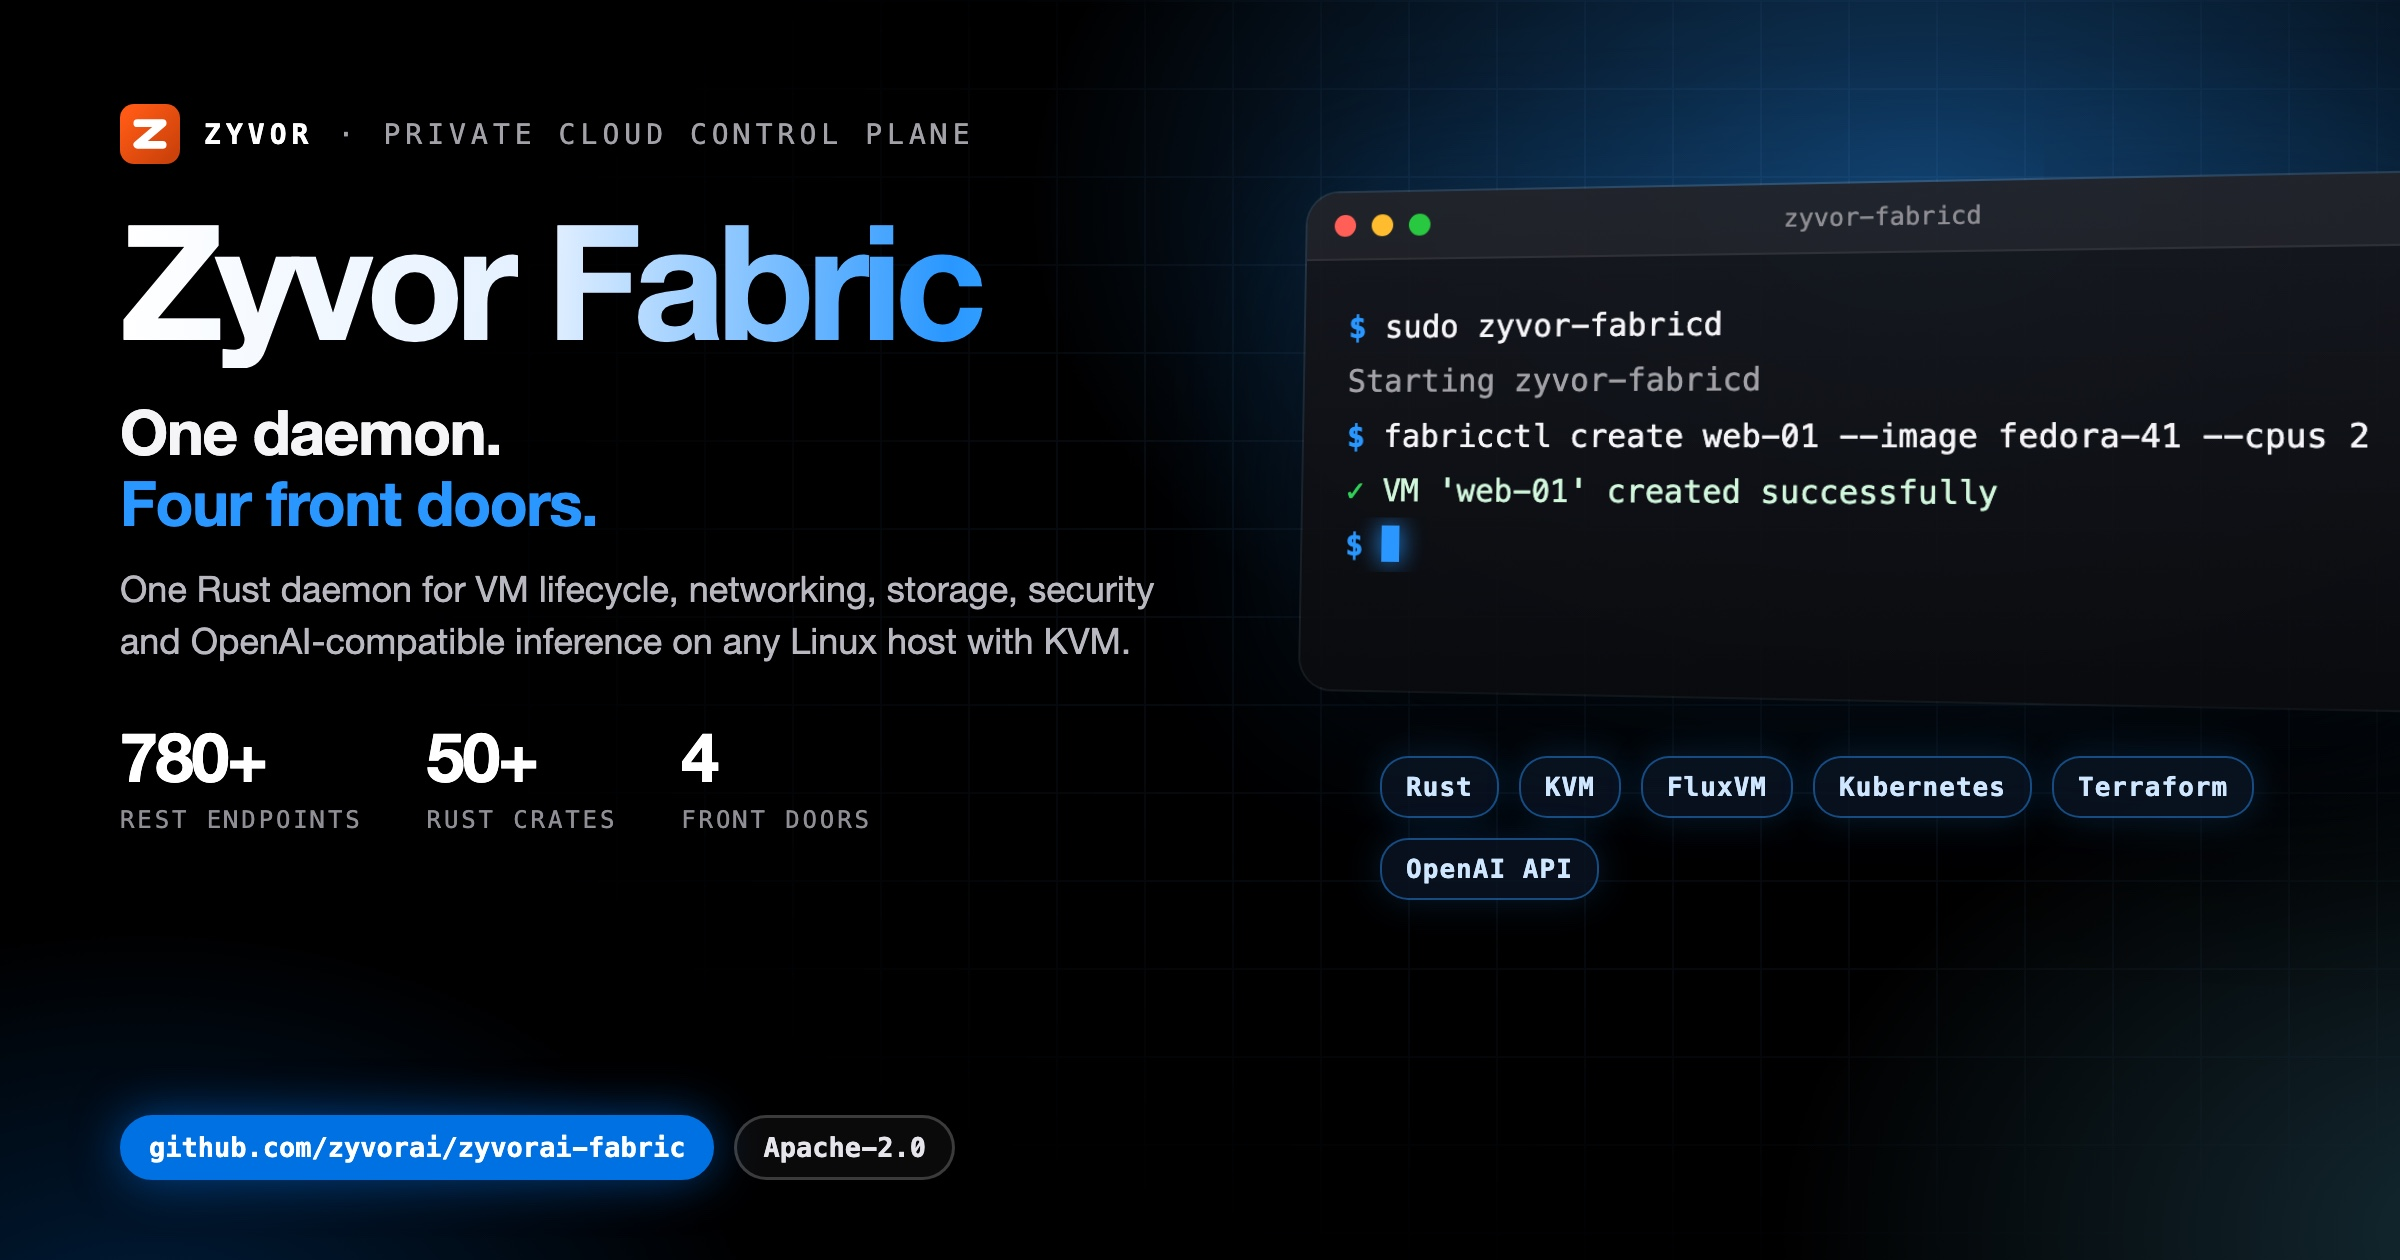
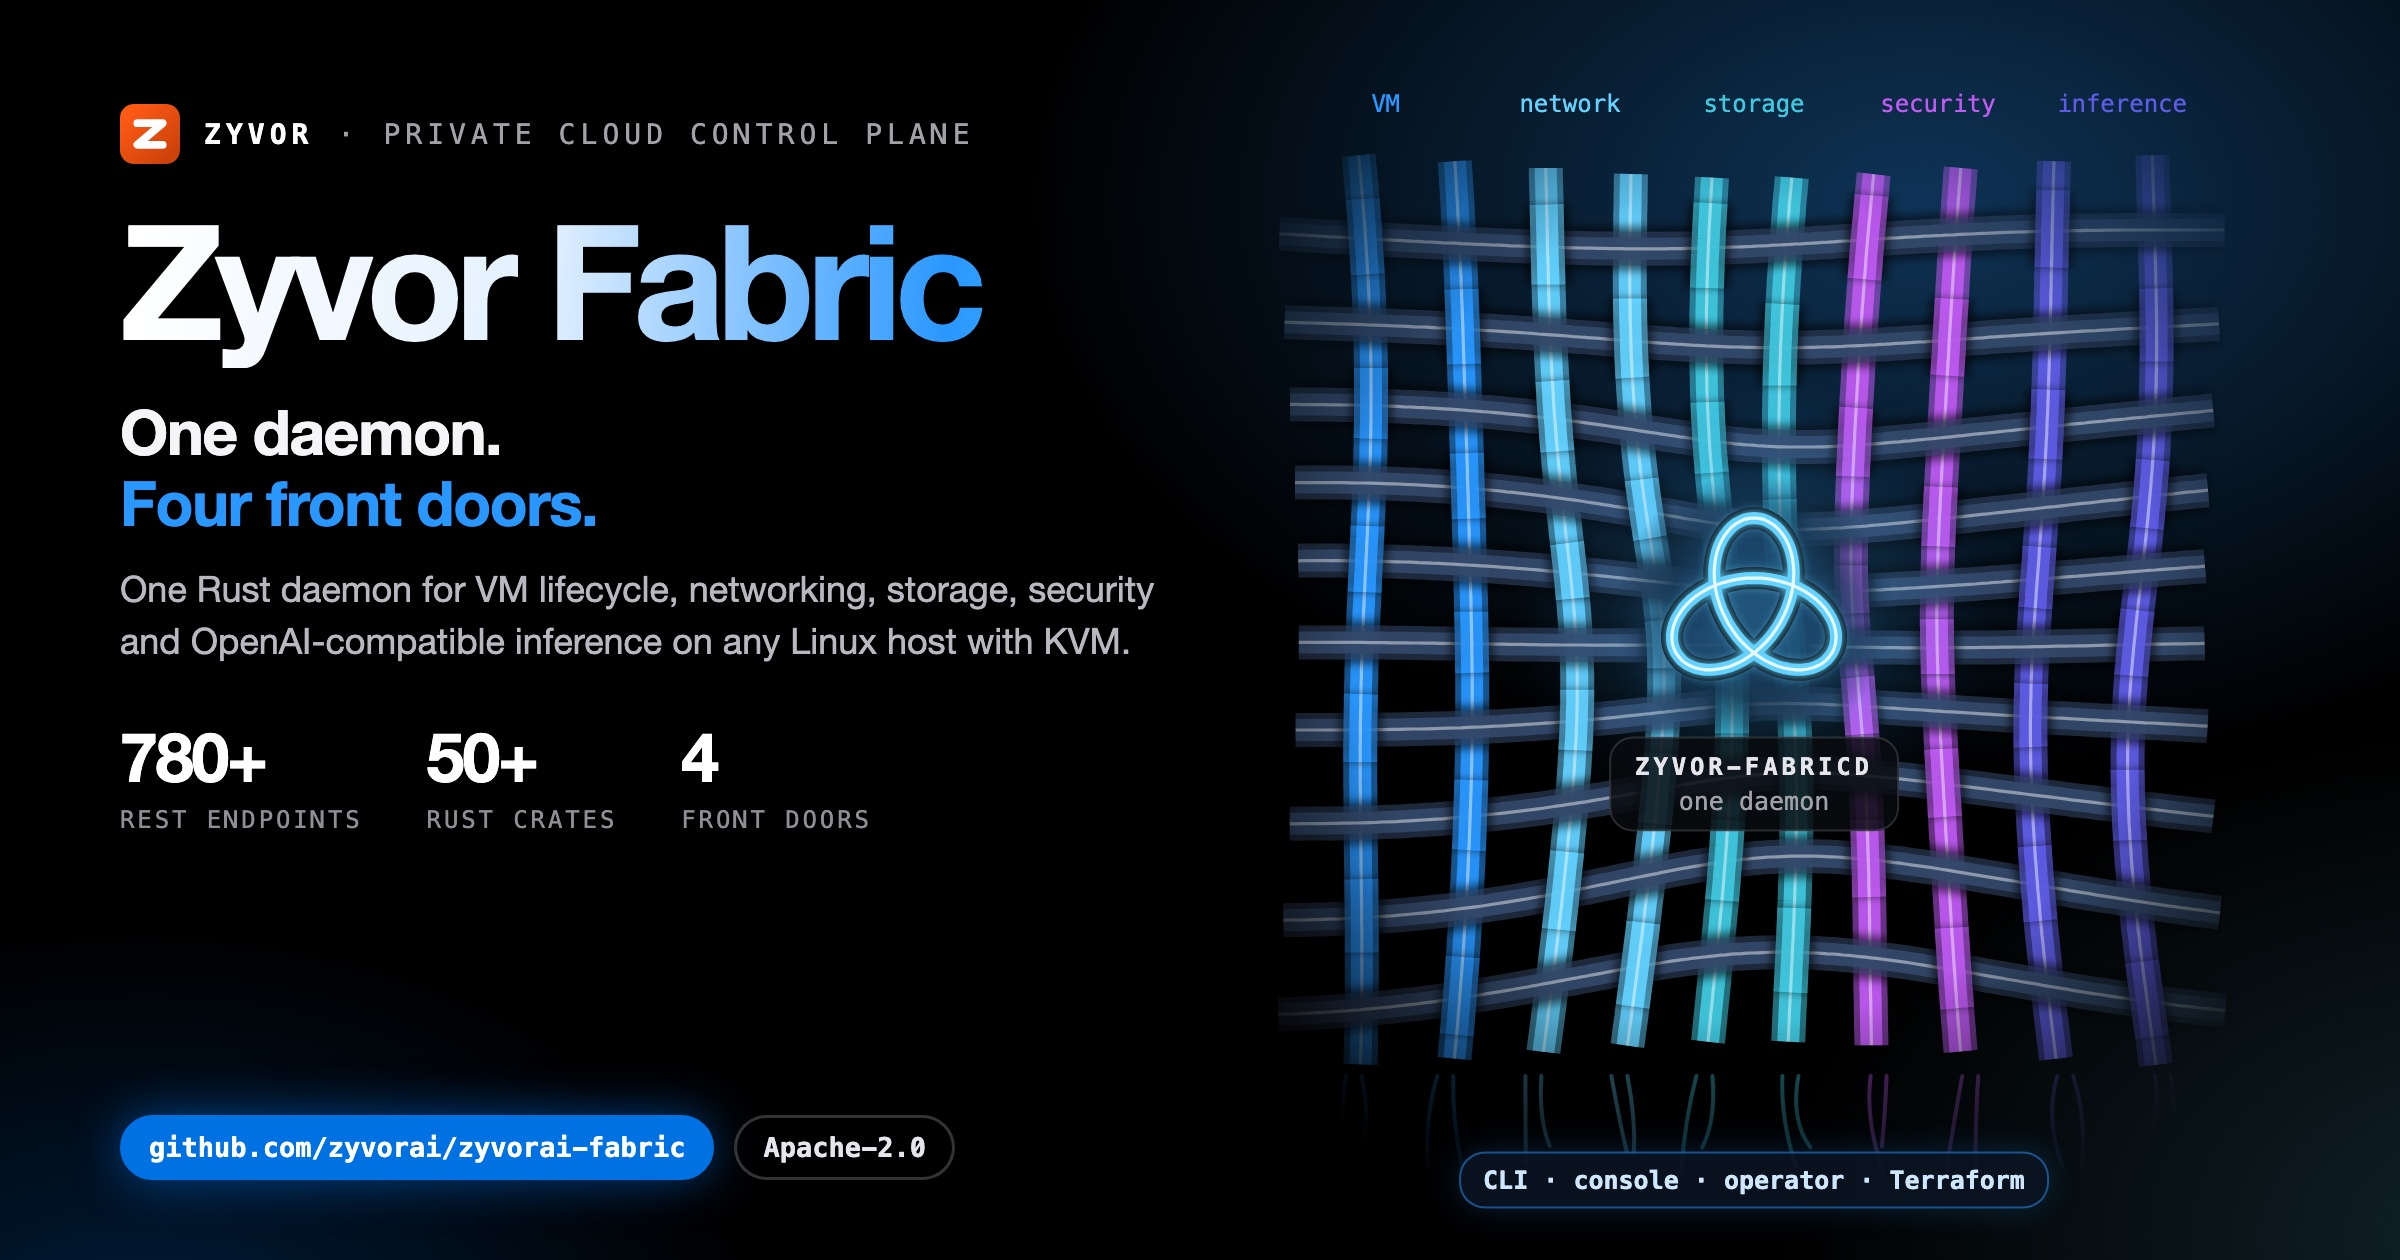
docs(social): unique illustrated hero card
Replace the shared terminal-window art with a motif drawn for this project;
same verified copy and stats on the left.

diff --git a/docs/social/fabric-hero-dark.html b/docs/social/fabric-hero-dark.html
@@ -8,58 +8,47 @@
   Build: ./docs/social/build-hero-dark.sh  ->  fabric-hero-dark.jpg (2400x1260)
 -->
 <style>
-  :root { --blue:#0071e3; --signal:#2997ff; --cyan:#64d2ff; --green:#30d158; --amber:#ff9f0a;
+  :root { --blue:#0071e3; --signal:#2997ff; --cyan:#64d2ff; --green:#30d158; --amber:#ff9f0a; --red:#ff453a; --violet:#bf5af2;
     --sans:'SF Pro Display','Helvetica Neue',Helvetica,Arial,sans-serif; --mono:'SF Mono',Menlo,Consolas,monospace; }
   * { box-sizing:border-box; }
   html,body { margin:0; padding:0; }
   body { width:1200px; height:630px; overflow:hidden; color:#f5f5f7; font-family:var(--sans); position:relative; background:#000; }
   .aurora { position:absolute; inset:0;
-    background:radial-gradient(720px 460px at 80% 16%, rgba(41,151,255,.40), transparent 62%),
-               radial-gradient(600px 420px at 104% 98%, rgba(100,210,255,.20), transparent 60%),
+    background:radial-gradient(720px 460px at 80% 16%, rgba(41,151,255,.34), transparent 62%),
+               radial-gradient(600px 420px at 104% 98%, rgba(100,210,255,.16), transparent 60%),
                radial-gradient(520px 380px at 6% 110%, rgba(0,113,227,.28), transparent 60%); }
-  .grid { position:absolute; inset:0; opacity:.09;
-    background-image:linear-gradient(rgba(120,180,255,.9) 1px,transparent 1px),linear-gradient(90deg,rgba(120,180,255,.9) 1px,transparent 1px);
-    background-size:44px 44px; -webkit-mask-image:radial-gradient(900px 520px at 72% 42%, #000 18%, transparent 75%); }
-  .left { position:absolute; left:60px; top:52px; width:560px; z-index:3; }
+  .copy { position:absolute; left:60px; top:52px; width:560px; z-index:3; }
   .brand { display:flex; align-items:center; gap:12px; font-family:var(--mono); font-size:14px; letter-spacing:.18em; text-transform:uppercase; color:#a1a1a6; }
   .brand b { color:#fff; }
   .word { margin:20px 0 0; font-size:80px; line-height:.95; font-weight:800; letter-spacing:-.05em; white-space:nowrap;
     background:linear-gradient(92deg,#fff 0%,#e3f0ff 38%,var(--signal) 74%,var(--cyan) 100%); -webkit-background-clip:text; background-clip:text; color:transparent; padding-bottom:6px; }
   .tag { margin:14px 0 0; font-size:31px; line-height:1.15; font-weight:700; letter-spacing:-.02em; }
   .tag em { font-style:normal; color:var(--signal); }
-  .lede { margin:12px 0 0; font-size:18px; line-height:1.45; color:#b8b8bf; width:520px; }
+  .lede { margin:12px 0 0; font-size:18px; line-height:1.45; color:#b8b8bf; width:520px; text-shadow:0 1px 12px #000; }
   .stats { margin-top:24px; display:flex; gap:32px; }
   .stat b { display:block; font-size:34px; font-weight:800; letter-spacing:-.03em; color:#fff; }
   .stat span { font-family:var(--mono); font-size:12px; letter-spacing:.12em; text-transform:uppercase; color:#8e8e93; }
   .pill { position:absolute; left:60px; bottom:40px; display:flex; gap:10px; z-index:3; }
-  .pill span { font-family:var(--mono); font-size:13.5px; font-weight:700; padding:7px 13px; border-radius:18px; border:1.5px solid rgba(255,255,255,.2); color:#e5e5ea; background:rgba(255,255,255,.04); }
+  .pill span { font-family:var(--mono); font-size:13.5px; font-weight:700; padding:7px 13px; border-radius:18px; border:1.5px solid rgba(255,255,255,.2); color:#e5e5ea; background:rgba(0,0,0,.6); }
   .pill span.b { background:var(--blue); border-color:var(--blue); color:#fff; box-shadow:0 0 24px rgba(0,113,227,.55); }
-
-  .right { position:absolute; left:652px; top:96px; width:560px; z-index:2; }
-  .win { position:relative; width:560px; border-radius:16px; overflow:hidden; z-index:2;
-    background:linear-gradient(180deg, rgba(22,24,30,.94), rgba(10,11,14,.96));
-    box-shadow:0 50px 100px rgba(0,0,0,.75), 0 0 0 1px rgba(255,255,255,.14), 0 0 90px rgba(41,151,255,.22);
-    transform:perspective(1600px) rotateY(-14deg) rotateX(4deg); transform-origin:left center; }
-  .bar { height:34px; display:flex; align-items:center; gap:8px; padding:0 14px; background:rgba(255,255,255,.05); border-bottom:1px solid rgba(255,255,255,.07); }
-  .bar i { width:11px; height:11px; border-radius:50%; background:#ff5f57; } .bar i:nth-child(2){background:#febc2e} .bar i:nth-child(3){background:#28c840}
-  .bar em { margin-left:auto; margin-right:auto; font-style:normal; font-family:var(--mono); font-size:12px; color:#8e8e93; transform:translateX(-24px); }
-  .term { min-height:214px; padding:20px 22px 24px; font-family:var(--mono); font-size:15.5px; line-height:1.75; }
-  .l { white-space:pre; overflow:hidden; text-overflow:ellipsis; color:#f5f5f7; }
-  .l .p { color:var(--signal); font-weight:700; }
-  .l.out { color:#a1a1a6; }
-  .l.cm { color:#6e6e73; }
-  .l.ok { color:#d1f7dc; } .l.ok span { color:var(--green); font-weight:700; }
-  .l.warn { color:#ffe1b0; } .l.warn span { color:var(--amber); font-weight:700; }
-  .cur { display:inline-block; width:9px; height:18px; background:var(--signal); vertical-align:-3px; box-shadow:0 0 12px var(--signal); }
-  .chips { margin:34px 0 0 38px; width:480px; display:flex; flex-wrap:wrap; gap:10px; position:relative; z-index:3; }
-  .chips span { font-family:var(--mono); font-size:13px; font-weight:700; letter-spacing:.04em; padding:7px 12px; border-radius:14px;
-    color:#cfe6ff; background:rgba(10,20,35,.82); border:1px solid rgba(41,151,255,.45); box-shadow:0 0 18px rgba(41,151,255,.18); }
+  .art { position:absolute; left:520px; top:0; width:680px; height:630px; z-index:2; }
+  .art svg { display:block; }
+  #labels { position:absolute; inset:0; z-index:4; pointer-events:none; }
+  .lbl { position:absolute; font-family:var(--mono); font-size:12.5px; color:#a1a1a6; text-align:center; transform:translate(-50%,-50%); white-space:nowrap; }
+  .lbl b { display:block; font-size:12px; letter-spacing:.16em; text-transform:uppercase; color:#e5e5ea; }
+  .lbl span { display:block; margin-top:3px; }
+  .lbl.box { padding:7px 12px; border-radius:12px; background:rgba(8,10,14,.85); border:1px solid rgba(255,255,255,.14); }
+  .lbl.chip { padding:6px 11px; border-radius:13px; font-size:12.5px; font-weight:700; color:#cfe6ff; background:rgba(10,20,35,.85); border:1px solid rgba(41,151,255,.5); box-shadow:0 0 16px rgba(41,151,255,.2); }
+  .lbl.left { transform:translate(0,-50%); text-align:left; }
+  .lbl.right { transform:translate(-100%,-50%); text-align:right; }
+  .ok { color:var(--green) !important; } .warn { color:var(--amber) !important; } .bad { color:var(--red) !important; } .sig { color:var(--signal) !important; } .cy { color:var(--cyan) !important; } .vi { color:var(--violet) !important; }
 </style>
 </head>
 <body>
 <div class="aurora"></div>
-<div class="grid"></div>
-<div class="left">
+<div class="art"><svg id="art" width="680" height="630" viewBox="0 0 680 630" xmlns="http://www.w3.org/2000/svg"></svg></div>
+<div id="labels"></div>
+<div class="copy">
   <div class="brand"><svg viewBox="0 0 64 64" width="30" height="30" aria-hidden="true"><defs><linearGradient id="zb" x1="8" y1="8" x2="56" y2="56" gradientUnits="userSpaceOnUse"><stop offset="0" stop-color="#ff5a15"/><stop offset="1" stop-color="#cc420a"/></linearGradient></defs><rect width="64" height="64" rx="15" fill="url(#zb)"/><path d="M18.5,20.5 45.5,20.5 18.5,43.5 45.5,43.5" fill="none" stroke="#fff" stroke-width="8.3" stroke-linecap="round" stroke-linejoin="round"/></svg><b>Zyvor</b><span>&middot;</span><span>Private cloud control plane</span></div>
   <div class="word">Zyvor Fabric</div>
   <div class="tag">One daemon.<br><em>Four front doors.</em></div>
@@ -67,8 +56,103 @@
   <div class="stats"><div class="stat"><b>780+</b><span>REST endpoints</span></div><div class="stat"><b>50+</b><span>Rust crates</span></div><div class="stat"><b>4</b><span>front doors</span></div></div>
 </div>
 <div class="pill"><span class="b">github.com/zyvorai/zyvorai-fabric</span><span>Apache-2.0</span></div>
-<div class="right"><div class="win"><div class="bar"><i></i><i></i><i></i><em>zyvor-fabricd</em></div>
-<div class="term"><div class="l"><span class="p">$</span> sudo zyvor-fabricd</div><div class="l out">Starting zyvor-fabricd</div><div class="l"><span class="p">$</span> fabricctl create web-01 --image fedora-41 --cpus 2</div><div class="l ok"><span>&#10003;</span> VM &#x27;web-01&#x27; created successfully</div><div class="l"><span class="p">$</span> <i class="cur"></i></div></div></div>
-<div class="chips"><span>Rust</span><span>KVM</span><span>FluxVM</span><span>Kubernetes</span><span>Terraform</span><span>OpenAI API</span></div></div>
+<script>
+var Z = (function () {
+  var NS = 'http://www.w3.org/2000/svg', svg = document.getElementById('art'), labels = document.getElementById('labels');
+  var seed = 20261004;
+  function rnd() { seed = (seed * 1103515245 + 12345) % 2147483648; return seed / 2147483648; }
+  function el(tag, a, parent) { var n = document.createElementNS(NS, tag); for (var k in a) n.setAttribute(k, a[k]); (parent || svg).appendChild(n); return n; }
+  function g(attrs) { return el('g', attrs || {}); }
+  function label(x, y, inner, cls, style) { var d = document.createElement('div'); d.className = 'lbl ' + (cls || ''); d.style.left = (520 + x) + 'px'; d.style.top = y + 'px'; if (style) d.setAttribute('style', d.getAttribute('style') + ';' + style); d.innerHTML = inner; labels.appendChild(d); return d; }
+  return { NS: NS, svg: svg, W: 680, H: 630, rnd: rnd, el: el, g: g, label: label,
+    reseed: function (s) { seed = s; },
+    c: { blue: '#0071e3', signal: '#2997ff', cyan: '#64d2ff', green: '#30d158', amber: '#ff9f0a', red: '#ff453a', violet: '#bf5af2', teal: '#40c8e0', indigo: '#5e5ce6', pink: '#ff375f', white: '#f5f5f7', grey: '#8e8e93' } };
+})();
+(function () {
+// Fabric: a woven cloth. Warp threads are the five capabilities, interlaced with weft; one glowing knot at the centre is the single daemon.
+var C = Z.c;
+var defs = Z.el('defs', {});
+defs.innerHTML = '<filter id="fbGl" filterUnits="userSpaceOnUse" x="-50" y="-50" width="780" height="730"><feGaussianBlur stdDeviation="3" result="b"/><feMerge><feMergeNode in="b"/><feMergeNode in="SourceGraphic"/></feMerge></filter>' +
+  '<filter id="fbSf" filterUnits="userSpaceOnUse" x="-50" y="-50" width="780" height="730"><feGaussianBlur stdDeviation="14"/></filter>' +
+  '<filter id="fbSh" filterUnits="userSpaceOnUse" x="-50" y="-50" width="780" height="730"><feGaussianBlur stdDeviation="2.2"/></filter>' +
+  '<radialGradient id="fbFade" gradientUnits="userSpaceOnUse" cx="357" cy="306" r="330"><stop offset=".62" stop-color="#fff"/><stop offset="1" stop-color="#000"/></radialGradient>' +
+  '<mask id="fbMask"><rect x="0" y="0" width="680" height="630" fill="url(#fbFade)"/></mask>' +
+  '<radialGradient id="fbCore"><stop offset="0" stop-color="#05080e" stop-opacity=".95"/><stop offset=".6" stop-color="#05080e" stop-opacity=".85"/><stop offset="1" stop-color="#05080e" stop-opacity="0"/></radialGradient>' +
+  '<radialGradient id="fbHalo"><stop offset="0" stop-color="#64d2ff" stop-opacity=".55"/><stop offset="1" stop-color="#2997ff" stop-opacity="0"/></radialGradient>';
+
+var types = [
+  { n: 'VM', c: C.signal }, { n: 'network', c: C.cyan }, { n: 'storage', c: C.teal },
+  { n: 'security', c: C.violet }, { n: 'inference', c: C.indigo }
+];
+var NW = 10, NF = 10, X0 = 150, SX = 46, Y0 = 108, SY = 44, TW = 17;
+function warpX(i, y) { return X0 + i * SX + 7 * Math.sin(y / 70 + i * .5); }
+function weftY(j, x) { return Y0 + j * SY + 6 * Math.sin(x / 85 + j * .7); }
+var KX = X0 + 4.5 * SX, KY = Y0 + 4.5 * SY;
+function pinch(x, y) {
+  var dx = KX - x, dy = KY - y, f = .42 * Math.exp(-(dx * dx + dy * dy) / (2 * 120 * 120));
+  return (x + dx * f).toFixed(1) + ',' + (y + dy * f).toFixed(1);
+}
+function warpPath(i, ya, yb) {
+  var d = '';
+  for (var y = ya; y <= yb + .01; y += 3) d += (d ? ' L' : 'M') + pinch(warpX(i, y), y);
+  return d;
+}
+function weftPath(j, xa, xb) {
+  var d = '';
+  for (var x = xa; x <= xb + .01; x += 3) d += (d ? ' L' : 'M') + pinch(x, weftY(j, x));
+  return d;
+}
+var yTop = Y0 - 34, yBot = Y0 + (NF - 1) * SY + 34, xL = X0 - 34, xR = X0 + (NW - 1) * SX + 34;
+
+var cloth = Z.g({ mask: 'url(#fbMask)' });
+function thread(d, col, parent, shade) {
+  if (shade) Z.el('path', { d: d, fill: 'none', stroke: '#000', 'stroke-width': TW + 5, opacity: .55, filter: 'url(#fbSh)', 'stroke-linecap': 'butt' }, parent);
+  Z.el('path', { d: d, fill: 'none', stroke: col, 'stroke-width': TW, 'stroke-linecap': 'butt', opacity: .55 }, parent);
+  Z.el('path', { d: d, fill: 'none', stroke: col, 'stroke-width': TW - 6, 'stroke-linecap': 'butt', opacity: .9 }, parent);
+  Z.el('path', { d: d, fill: 'none', stroke: 'rgba(255,255,255,.45)', 'stroke-width': 1.6, 'stroke-linecap': 'butt' }, parent);
+}
+var weftCol = '#34496b';
+// 1. warps full length (under layer)
+for (var i = 0; i < NW; i++) thread(warpPath(i, yTop, yBot), types[Math.floor(i / 2)].c, cloth, false);
+// 2. wefts full length
+for (var j = 0; j < NF; j++) thread(weftPath(j, xL, xR), weftCol, cloth, true);
+// 3. warp segments that pass over the weft (plain weave)
+for (var i = 0; i < NW; i++) for (var j = 0; j < NF; j++) {
+  if ((i + j) % 2) continue;
+  var yc = weftY(j, warpX(i, Y0 + j * SY));
+  thread(warpPath(i, yc - SY / 2 + 3, yc + SY / 2 - 3), types[Math.floor(i / 2)].c, cloth, true);
+}
+// loose fringe at the bottom
+for (var i = 0; i < NW; i++) {
+  var x = warpX(i, yBot), col = types[Math.floor(i / 2)].c;
+  for (var f = -1; f <= 1; f += 2) {
+    var fx = x + f * 4;
+    Z.el('path', { d: 'M' + fx.toFixed(1) + ',' + yBot + ' q' + (Z.rnd() * 14 - 7) + ',22 ' + (Z.rnd() * 16 - 8) + ',' + (34 + Z.rnd() * 18), fill: 'none', stroke: col, 'stroke-width': 2, opacity: .45, 'stroke-linecap': 'round' }, cloth);
+  }
+}
+
+// the knot: a glowing trefoil where every thread is tied together
+var kx = X0 + 4.5 * SX, ky = Y0 + 4.5 * SY;
+Z.el('circle', { cx: kx, cy: ky, r: 70, fill: 'url(#fbCore)' });
+Z.el('circle', { cx: kx, cy: ky, r: 120, fill: 'url(#fbHalo)', opacity: .5 });
+var kd = '';
+for (var t = 0; t <= 360; t += 3) {
+  var a = t * Math.PI / 180, s = 15;
+  var px = kx + s * (Math.sin(a) + 2 * Math.sin(2 * a)), py = ky + s * (Math.cos(a) - 2 * Math.cos(2 * a)) - 2;
+  kd += (kd ? ' L' : 'M') + px.toFixed(1) + ',' + py.toFixed(1);
+}
+kd += 'Z';
+Z.el('path', { d: kd, fill: 'none', stroke: C.signal, 'stroke-width': 14, opacity: .35, filter: 'url(#fbSf)' });
+Z.el('path', { d: kd, fill: 'none', stroke: '#05080e', 'stroke-width': 11, 'stroke-linejoin': 'round' });
+Z.el('path', { d: kd, fill: 'none', stroke: C.cyan, 'stroke-width': 6, 'stroke-linejoin': 'round', filter: 'url(#fbGl)' });
+Z.el('path', { d: kd, fill: 'none', stroke: '#fff', 'stroke-width': 1.6, opacity: .85 });
+
+types.forEach(function (tp, k) {
+  Z.label(X0 + (2 * k + .5) * SX, 52, tp.n, '', 'font-size:12px;color:' + tp.c);
+});
+Z.label(kx, ky + 86, '<b>zyvor-fabricd</b><span>one daemon</span>', 'box');
+Z.label(X0 + 4.5 * SX, 590, 'CLI &middot; console &middot; operator &middot; Terraform', 'chip');
+})();
+</script>
 </body>
 </html>
